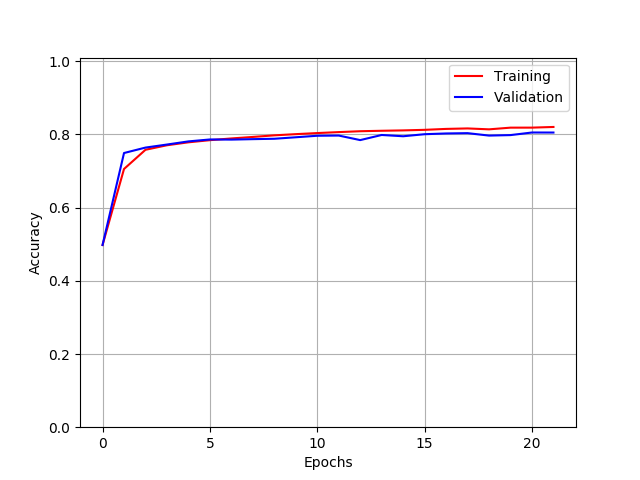
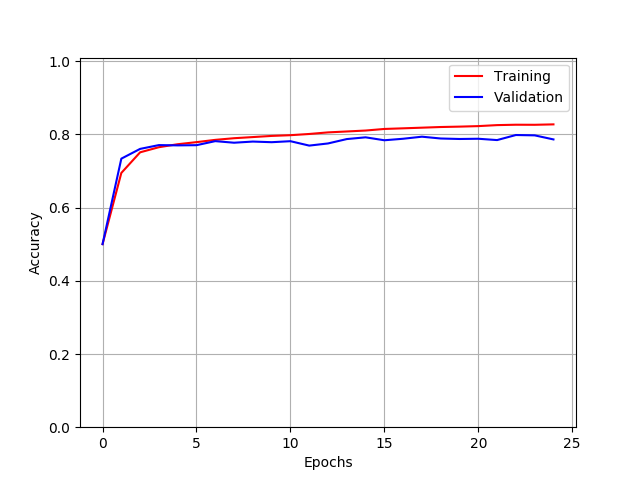
Report writing

diff --git a/report/experiments.tex b/report/experiments.tex
@@ -500,7 +500,7 @@ where names were substituted by empty strings. We wanted to see how well the
 network would perform when it was not able to use peoples names as a feature.
 A graph of the training and validation accuracies can be seen in Figure
 \ref{fig:network_4_accuracies}. The best validation result we found was in epoch
-20 with an accuracy of 0.80531. That means that we lost about 3\% accuracy now
+22 with an accuracy of 0.79843. That means that we lost about 4\% accuracy now
 that we can no longer look at peoples names.
 
 \begin{figure}
@@ -810,6 +810,46 @@ filter is able to find out whether or not a text contains the phrase but are not
 able to say anything about how often that phrase is used by the author. To find
 out how often a phrase is used we need to stop using max over time pooling and
 start using some kind of average.
+
+\subsection{Siamese Neural Network - Iteration 5}
+
+The problems in the previous network were mainly due to the use of a global
+max pool. That allowed our networks to look at the presence of certain strings
+in texts. Our fifth iteration therefore does not include any global max pools.
+Furthermore the network is a \gls{RNN}. We used the same basic architecture
+as before. Two texts are presented to the network at a time and features
+are extracted from the texts by a Siamese Network. The features are then
+compared using a normal dense network. In this iteration we used a combination
+of convolutions and \gls{RNN}'s to extract the features. The input is as
+usual encoded in an embedding layer. The embedding layer is followed by a
+convolutional layer of size 8 and stride 1. The idea is that the convolutional
+layer can look at 8 characters at a time and learn features from that. After the
+convolutional layer we have a max pool with pool size 8. That is mainly to save
+computation power as the size of the texts are reduced to $\frac{1}{8}$ of the
+original size. After the max pool we have a \gls{LSTM} layer with 100 output
+neurons. The \gls{LSTM} layer loops through the output from the convolution and
+max pool and extracts 100 features from it. Now we have 100 features from each
+of the input texts. As earlier we combine the features with the elementwise
+absolute difference. On top of that Siamese part of the network we compare the
+features extracted with a classic dense network. The network has a single layer
+with 500 neurons and activated by the \gls{ReLu} activation function. Lastly we
+have a dropout layer with 30\% dropout and the output layer with a softmax as
+before. We have shown the network in Figure \ref{fig:network5}.
+
+\begin{figure}
+    \centering
+    \includegraphics[width=\textwidth]{./pictures/experiments/network5.png}
+    \caption{Illustrate the structure of our fifth Siamese Neural Network.
+        Weights are shared by the embedding layers, the convolutional layer and
+        the LSTM layer. This Figure will be replaced by the new format when we
+        decide what that format is.}
+    \label{fig:network5}
+\end{figure}
+
+We have no actual results for the network. The training time is very slow. It
+has run for 3 epochs and rise about 5\% in accuracy each epoch. When we last
+looked at it it was at 71\% validation accuracy.
+
 
 TODO:
 \begin{itemize}

diff --git a/report/method.tex b/report/method.tex
@@ -376,7 +376,7 @@ averaged out.
 
 \begin{definition}[Prediction System]
 
-    Our prediction system is a function $P(f,w, \alpha, t_{unkown}, \theta)
+    Our prediction system is a function $P(f, w, \alpha, t_{unkown}, \theta)
     \rightarrow \{0, 1\}$ where $F$ is a function taking two texts and giving
     the probability that the texts are written by the same author, $\alpha$ is
     an author that has written the texts $T_{\alpha}$, $t_{known}$ is a text
@@ -394,8 +394,8 @@ averaged out.
 \end{definition}
 
 That is the prediction system returns 1 if the weighted average of the
-probability that $t_{unknown}$ is written by the same author as $t_{known}$ for each $t_k \in
-T_\alpha$ is greater than the threshold $\theta$ and 0 otherwise.
+probability that $t_{unknown}$ is written by the same author as $t_{known}$ for
+each $t_k \in T_\alpha$ is greater than the threshold $\theta$ and 0 otherwise.
 
 The $f$ parameter can be anything that takes two texts and returns a
 probability. We are going to present several different networks that can be used
@@ -407,7 +407,7 @@ texts differently. For example we could define $w$ such that the newest
 text is weighed as most important and older texts are weighed less and less
 important. $w$ could be defined as $w(t_1), w(t_2), \dots, w(t_n) = \frac{1}{2},
 \frac{1}{4}, \dots, \frac{1}{2^{n-1}}, \frac{1}{2^{n-1}}$ where $t_1$ is the
-newest text, $t_2$ is the second newest and so on. Otherwise $W$ can also
+newest text, $t_2$ is the second newest and so on. Otherwise $w$ can also
 be used to take a simple average of the decisions by defining it as $w(t) =
 \frac{1}{|T_\alpha|}$.
 
